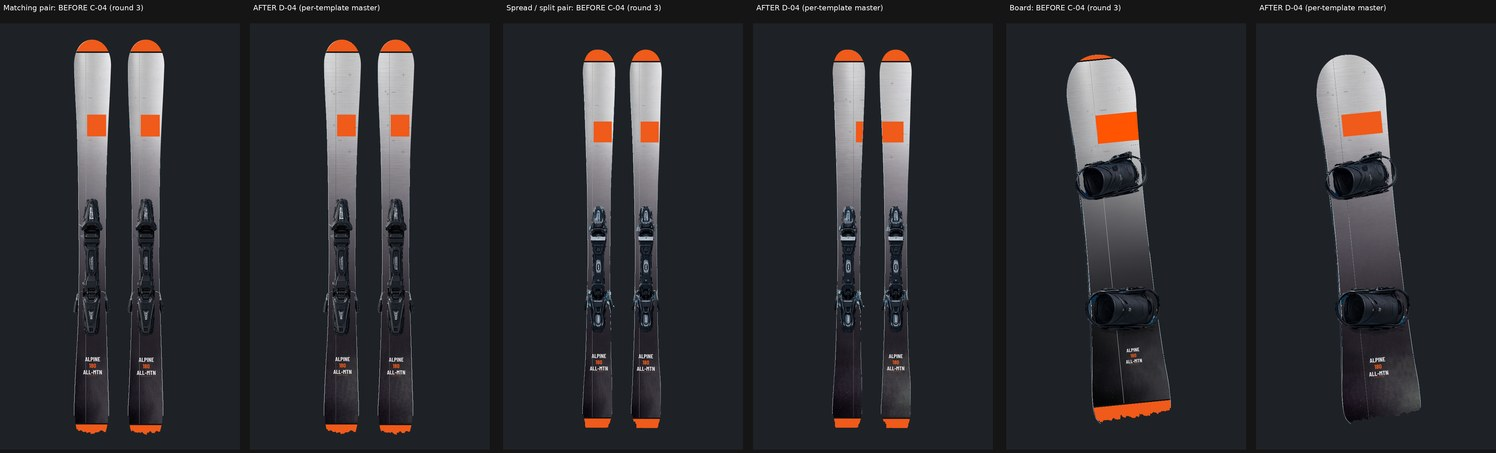
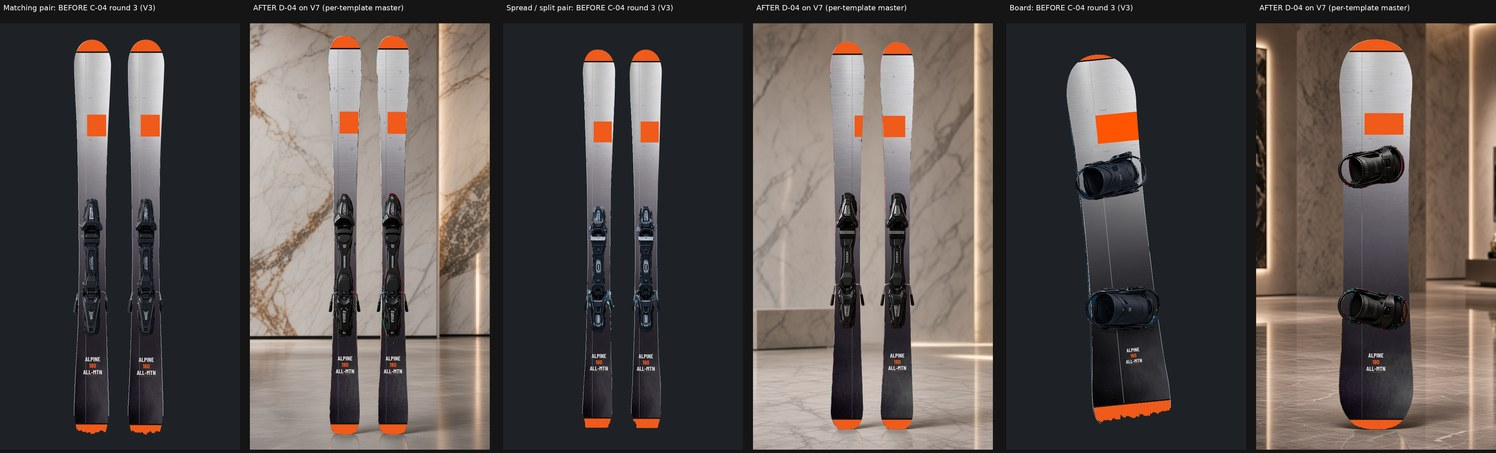
20261115d: V7 only (Dan 7:54 AM MT) - drop V3/template5/board rotation; spec standard = V7, no rotation

diff --git a/rate/20261115d/index.html b/rate/20261115d/index.html
@@ -71,7 +71,7 @@
 <header>
   <div>
     <h1>PowderWraps — Rate designs (20261115d)</h1>
-    <p>TEST — C-04 Brushed Tech ONLY, new per-template master method: one locked layout spec → a true-size master for each template (ski 7 in × 192 cm, board 14 in × 182 cm, split pair 14 in × 192 cm cut into L/R). Each mockup is a straight downscale of its master on the approved V3 template — no rotation, no crop. Rate each layout. 2 Keep · 1 Maybe · 0 Bad.</p>
+    <p>TEST — C-04 Brushed Tech ONLY, per-template master method on V7 ONLY: one locked layout spec → a true-size master per template (ski 7 in × 192 cm, board 14 in × 182 cm, split pair 14 in × 192 cm cut into L/R). Each V7 mockup is a straight downscale of its master — no rotation, no crop. Rate each view. 2 Keep · 1 Maybe · 0 Bad.</p>
   </div>
   <div class="actions">
     <button type="button" id="copyBtn">Copy payload</button>
@@ -87,16 +87,9 @@
 
   <div class="section-h">Before / after — C-04 round 3 vs D-04 per-template masters</div>
   <div class="legend" style="padding:8px"><img src="img/before-after.jpg" style="width:100%;cursor:zoom-in;border-radius:8px;background:#151515" onclick="openLb('img/before-after_full.jpg')" alt="before and after"/>
-  <p style="margin:6px 0 0">Before (C-04): one 1107×11712 canvas cropped/scaled into every view; board art rotated 5.717°. After (D-04): each view gets its own true-size master, placed straight. Board AFTER = master rotated 5.717° in the mockup only (+8.8% uniform scale to cover); the print file stays straight.</p></div>
-
-  <div class="section-h">Templates used (Dan-approved only) and skipped</div>
-  <div class="legend"><ul style="margin:0;padding-left:18px">
-  <li><b>Used — V3 Matching / Spread / Board</b>: approved standard, Dan t1309u, Nov 6 (APPROVED-STANDARD.json); 65-file hash list verified.</li>
-  <li><b>Used — V7 Matching / Spread / Board</b>: approved by Dan (lock: t1369u + t1370u, Nov 10; confirmed again by Dan Nov 15); 49-file lock verified.</li>
-  <li><b>Used — V7 scene backgrounds: Lodge wall (Matching) and Slope ski rack (Spread)</b>: approved by Dan (lock: t1378u, Nov 10; confirmed again by Dan Nov 15); 4-file lock verified.</li>
-  <li><b>Used — Lodge template5 Matching / Spread / Board</b>: locked Nov 9, Dan t1345u, mockups only (lodge-template5/LOCK-SHA256.json); 78-file lock verified before and after.</li>
-  <li><b>Skipped</b>: V7 reflection version (superseded); the older lodge-candidate working copy and the Nov 6 lodge reference photos (sources only, superseded by the locked template5); board scene backgrounds (après / board4) and other v7-bg-test scenes (not in any lock); pw-fixed-reference-template, unified-template-v1, universal snow background (drafts/candidates); Drive 05 Affinity ski-pair/snowboard templates (Sept, superseded by V3, no approval record).</li>
-  </ul></div>
+  <p style="margin:6px 0 0">Before (C-04, round 3): one 1107×11712 canvas cropped/scaled into every V3 view; board rotated 5.717°. After (D-04): each V7 view gets its own true-size master, placed straight with no rotation.</p></div>
+  <div class="section-h">Template</div>
+  <div class="legend">V7 only (Dan, Nov 15 7:54 AM MT): V7 Matching Pair, V7 Spread Pair, V7 Board (lock: Dan t1369u + t1370u, 49 files verified) and the two V7 scenes, Lodge wall and Slope ski rack (lock: Dan t1378u, 4 files verified). Art layer only; 0 binding / equipment pixels changed.</div>
   <div class="section-h">Master files (download)</div>
   <div class="legend" style="overflow-x:auto"><table style="width:100%;border-collapse:collapse;font-size:12px"><tr style="text-align:left"><th>File</th><th>Pixels</th><th>Physical size</th><th>DPI</th><th>File size</th></tr><tr><td><a href="masters/PWKD261115D-04-ski-master-7in-x-192cm-150dpi.png" download>PWKD261115D-04-ski-master-7in-x-192cm-150dpi.png</a></td><td>1050 × 11339 px</td><td>7 in x 192 cm (17.78 x 192 cm) (17.78 × 192.01 cm)</td><td>150 dpi</td><td>9.3 MB</td></tr><tr><td><a href="masters/PWKD261115D-04-board-master-14in-x-182cm-150dpi.png" download>PWKD261115D-04-board-master-14in-x-182cm-150dpi.png</a></td><td>2100 × 10748 px</td><td>14 in x 182 cm (35.56 x 182 cm) (35.56 × 182.0 cm)</td><td>150 dpi</td><td>18.0 MB</td></tr><tr><td><a href="masters/PWKD261115D-04-split-L-7in-x-192cm-150dpi.png" download>PWKD261115D-04-split-L-7in-x-192cm-150dpi.png</a></td><td>1050 × 11339 px</td><td>7 in x 192 cm (left half of 14 in x 192 cm sheet) (17.78 × 192.01 cm)</td><td>150 dpi</td><td>9.4 MB</td></tr><tr><td><a href="masters/PWKD261115D-04-split-R-7in-x-192cm-150dpi.png" download>PWKD261115D-04-split-R-7in-x-192cm-150dpi.png</a></td><td>1050 × 11339 px</td><td>7 in x 192 cm (right half of 14 in x 192 cm sheet) (17.78 × 192.01 cm)</td><td>150 dpi</td><td>9.1 MB</td></tr></table>
   <p style="margin:6px 0 0">split-L + split-R are the two halves of one 2100 × 11339 px (14 in × 192 cm) sheet, cut at x = 1050 px. Masters are PNG, sRGB, 150 dpi tagged.</p></div>
@@ -406,23 +399,24 @@
   &quot;nothing vulgar&quot;,
   &quot;approved V3 template only&quot;
  ],
- &quot;status&quot;: &quot;STANDARD per-template master method (Dan via Jenni, Nov 15 2026 7:39 AM MT). Reuse this file as the pattern: copy it, change base/accent/elements, keep the coordinate system and per_template_masters.&quot;,
+ &quot;status&quot;: &quot;STANDARD per-template master method (Dan via Jenni, Nov 15 2026). Template: V7 ONLY (Dan, 7:54 AM MT Nov 15). Reuse this file as the pattern: copy it, change base/accent/elements, keep the coordinate system and per_template_masters.&quot;,
  &quot;mockup_rules&quot;: {
+  &quot;template&quot;: &quot;V7 only: V7 Matching Pair, V7 Spread Pair, V7 Board, plus the two V7 scenes (Lodge wall = Matching, Slope ski rack = Spread). No V3, no other sets.&quot;,
   &quot;masters&quot;: &quot;print files stay straight and square; never altered for a mockup&quot;,
-  &quot;V3_board&quot;: &quot;mockup only: rotate the board master by the measured V3 board axis angle (5.717 deg, PCA), centre on the board axis, uniform scale up only as needed to cover (C-04: +8.8%)&quot;,
-  &quot;skis&quot;: &quot;straight uniform downscale of the master to each ski piece length, centred, no rotation, no crop&quot;,
-  &quot;split_pair&quot;: &quot;split-L on the left ski, split-R on the right ski of a Spread Pair template&quot;,
-  &quot;templates&quot;: &quot;only Dan-approved locked sets: V3 (Matching/Spread/Board), V7 (Matching/Spread/Board), V7 scene backgrounds (lodge wall = Matching, slope ski rack = Spread)&quot;
+  &quot;placement&quot;: &quot;NO rotation, NO extra scale: straight uniform downscale of each master to the piece length (art-mask extent), centred on the piece, no crop. Art layer only; equipment and bindings untouched.&quot;,
+  &quot;matching&quot;: &quot;ski master on both skis&quot;,
+  &quot;spread&quot;: &quot;split-L on the left ski, split-R on the right ski&quot;,
+  &quot;board&quot;: &quot;board master straight on the upright V7 board&quot;
  }
 }</pre></div>
 </main>
-<footer>PowderWraps · single-file rater · 20261115d · 5 cards (V3 ski pair · V3 board · V3 split pair · V7 + scenes · Lodge template5) + masters + layout spec + before/after · approved V3 template, bindings unchanged</footer>
+<footer>PowderWraps · single-file rater · 20261115d · 5 cards (V7 Matching · V7 Spread · V7 Board · Lodge wall · Slope ski rack) + masters + layout spec + before/after · approved V3 template, bindings unchanged</footer>
 <div id="lightbox" onclick="this.classList.remove('open')"><img id="lightboxImg" alt=""/><div class="hint">Click anywhere to close</div></div>
 <div id="toast"></div>
 <script>
 const BATCH = "20261115d";
 const WEBHOOK_URL = "";
-const DESIGNS = [{"id": "PWKD261115D-04-SKI", "name": "Brushed Tech \u2014 Ski master, matching pair", "motif": "V3 Matching pair: same master on both skis, straight uniform downscale to each ski's full length (0 rotation, 0 crop). 100 px (0.05%) of the ski mask at the widest shovel edge is not covered and shows as gray hatch.", "ctx": {"group": "Per-template master test (Dan Nov 15, 7:14 AM MT) \u2014 C-04 Brushed Tech only", "trend": "same B-04/C-04 look, each template gets its own true-size master built from one locked layout spec", "model": "Kittl \u00b7 Nano Banana 2.1 4K (1:4, 2048\u00d78256) clean brushed-metal plate; every mark, pinstripe, block, text and cap is vector-placed from spec.json", "prompt": "Clean full-bleed brushed aluminium plate (C-04 as reference): bright satin silver at top \u2192 gunmetal \u2192 matte black, grain mist at the bottom; no text, lines or marks.", "prompt_source": "summary", "tier": "Season", "sidecar": true, "cost": "40 Kittl tokens (one plate shared by all 4 masters)", "product": "Skis (matching pair)", "size": "ski master 1050\u00d711339 px \u00b7 7 in \u00d7 192 cm (17.78 \u00d7 192 cm) @150 dpi", "flags": "see note above", "intent": "V3 Matching pair: same master on both skis, straight uniform downscale to each ski's full length (0 rotation, 0 crop). 100 px (0.05%) of the ski mask at the widest shovel edge is not covered and shows as gray hatch."}, "kind": "ski", "img": "img/card_ski.jpg", "full": "img/card_ski_full.jpg", "rate": "", "note": "", "section": "kittl", "suggestion_applied": ""}, {"id": "PWKD261115D-04-BOARD", "name": "Brushed Tech \u2014 Board master (mockup rotated 5.717\u00b0 to the V3 board)", "motif": "V3 Board, MOCKUP ONLY: the straight 14 in \u00d7 182 cm print master is rotated 5.717\u00b0 onto the measured board axis and scaled up uniformly +8.8% so it covers the board: 9 px (0.004%) of the board left uncovered, centre offset 0.0 px, no shear. The print file is unchanged. Trade-off: at +8.8% the art runs 4.04% past each end, so the orange tip and tail caps fall off the board in this mockup. Alt panel: rotation only, no extra scale, keeps both caps but leaves 1.041% uncovered along the sides.", "ctx": {"group": "Per-template master test (Dan Nov 15, 7:14 AM MT) \u2014 C-04 Brushed Tech only", "trend": "same B-04/C-04 look, each template gets its own true-size master built from one locked layout spec", "model": "Kittl \u00b7 Nano Banana 2.1 4K (1:4, 2048\u00d78256) clean brushed-metal plate; every mark, pinstripe, block, text and cap is vector-placed from spec.json", "prompt": "Clean full-bleed brushed aluminium plate (C-04 as reference): bright satin silver at top \u2192 gunmetal \u2192 matte black, grain mist at the bottom; no text, lines or marks.", "prompt_source": "summary", "tier": "Season", "sidecar": true, "cost": "40 Kittl tokens (one plate shared by all 4 masters)", "product": "Board", "size": "board master 2100\u00d710748 px \u00b7 14 in \u00d7 182 cm (35.56 \u00d7 182 cm) @150 dpi", "flags": "see note above", "intent": "V3 Board, MOCKUP ONLY: the straight 14 in \u00d7 182 cm print master is rotated 5.717\u00b0 onto the measured board axis and scaled up uniformly +8.8% so it covers the board: 9 px (0.004%) of the board left uncovered, centre offset 0.0 px, no shear. The print file is unchanged. Trade-off: at +8.8% the art runs 4.04% past each end, so the orange tip and tail caps fall off the board in this mockup. Alt panel: rotation only, no extra scale, keeps both caps but leaves 1.041% uncovered along the sides."}, "kind": "board", "img": "img/card_board.jpg", "full": "img/card_board_full.jpg", "rate": "", "note": "", "section": "kittl", "suggestion_applied": ""}, {"id": "PWKD261115D-04-SPLIT", "name": "Brushed Tech \u2014 Split pair (one 14 in sheet cut in two)", "motif": "Mocked on the V3 Spread pair (the approved one-image-across-both-skis layout; no separate 'split-pair' template exists). Gradient, brush grain, caps and the orange block flow across the seam; the spec text sits on the right ski and no mark is within 12 mm of the seam.", "ctx": {"group": "Per-template master test (Dan Nov 15, 7:14 AM MT) \u2014 C-04 Brushed Tech only", "trend": "same B-04/C-04 look, each template gets its own true-size master built from one locked layout spec", "model": "Kittl \u00b7 Nano Banana 2.1 4K (1:4, 2048\u00d78256) clean brushed-metal plate; every mark, pinstripe, block, text and cap is vector-placed from spec.json", "prompt": "Clean full-bleed brushed aluminium plate (C-04 as reference): bright satin silver at top \u2192 gunmetal \u2192 matte black, grain mist at the bottom; no text, lines or marks.", "prompt_source": "summary", "tier": "Season", "sidecar": true, "cost": "40 Kittl tokens (one plate shared by all 4 masters)", "product": "Skis (split pair)", "size": "sheet 2100\u00d711339 px (14 in \u00d7 192 cm) \u2192 split-L and split-R 1050\u00d711339 px each, 7 in \u00d7 192 cm @150 dpi", "flags": "see note above", "intent": "Mocked on the V3 Spread pair (the approved one-image-across-both-skis layout; no separate 'split-pair' template exists). Gradient, brush grain, caps and the orange block flow across the seam; the spec text sits on the right ski and no mark is within 12 mm of the seam."}, "kind": "split", "img": "img/card_split.jpg", "full": "img/card_split_full.jpg", "rate": "", "note": "", "section": "kittl", "suggestion_applied": ""}, {"id": "PWKD261115D-04-V7", "name": "Brushed Tech \u2014 V7 templates + V7 scenes (Dan-approved, 5 mockups)", "motif": "Same masters on Dan's other approved sets: V7 Matching Pair, V7 Spread Pair (split L/R), V7 Board (upright, straight), V7 scene Lodge wall (Matching) and V7 scene Slope ski rack (Spread). Straight uniform downscale to each piece length, art layer only, uncovered: matching 0.053%, spread 0.06%, board 0%. 0 binding / equipment pixels changed.", "ctx": {"group": "Per-template master test (Dan Nov 15, 7:14 AM MT) \u2014 C-04 Brushed Tech only", "trend": "same B-04/C-04 look, each template gets its own true-size master built from one locked layout spec", "model": "Kittl \u00b7 Nano Banana 2.1 4K (1:4, 2048\u00d78256) clean brushed-metal plate; every mark, pinstripe, block, text and cap is vector-placed from spec.json", "prompt": "Clean full-bleed brushed aluminium plate (C-04 as reference): bright satin silver at top \u2192 gunmetal \u2192 matte black, grain mist at the bottom; no text, lines or marks.", "prompt_source": "summary", "tier": "Season", "sidecar": true, "cost": "40 Kittl tokens (one plate shared by all 4 masters)", "product": "Skis + Board", "size": "same four masters (ski, board, split-L, split-R)", "flags": "see note above", "intent": "Same masters on Dan's other approved sets: V7 Matching Pair, V7 Spread Pair (split L/R), V7 Board (upright, straight), V7 scene Lodge wall (Matching) and V7 scene Slope ski rack (Spread). Straight uniform downscale to each piece length, art layer only, uncovered: matching 0.053%, spread 0.06%, board 0%. 0 binding / equipment pixels changed."}, "kind": "v7", "img": "img/card_v7.jpg", "full": "img/card_v7_full.jpg", "rate": "", "note": "", "section": "kittl", "suggestion_applied": ""}, {"id": "PWKD261115D-04-T5", "name": "Brushed Tech \u2014 Lodge template5 (3 mockups)", "motif": "Lodge template5 (locked Nov 9, Dan t1345u, mockups only): Matching Pair, Spread Pair (split L/R) and Board, each a straight uniform downscale of the true-size master to the piece length, art layer only. Template5 pieces are a little wider for their length than the masters, so thin side strips stay uncovered (gray hatch): matching 2.821%, board 1.771%, spread 0%. 0 binding pixels changed.", "ctx": {"group": "Per-template master test (Dan Nov 15, 7:14 AM MT) \u2014 C-04 Brushed Tech only", "trend": "same B-04/C-04 look, each template gets its own true-size master built from one locked layout spec", "model": "Kittl \u00b7 Nano Banana 2.1 4K (1:4, 2048\u00d78256) clean brushed-metal plate; every mark, pinstripe, block, text and cap is vector-placed from spec.json", "prompt": "Clean full-bleed brushed aluminium plate (C-04 as reference): bright satin silver at top \u2192 gunmetal \u2192 matte black, grain mist at the bottom; no text, lines or marks.", "prompt_source": "summary", "tier": "Season", "sidecar": true, "cost": "40 Kittl tokens (one plate shared by all 4 masters)", "product": "Skis + Board", "size": "same four masters (ski, board, split-L, split-R)", "flags": "see note above", "intent": "Lodge template5 (locked Nov 9, Dan t1345u, mockups only): Matching Pair, Spread Pair (split L/R) and Board, each a straight uniform downscale of the true-size master to the piece length, art layer only. Template5 pieces are a little wider for their length than the masters, so thin side strips stay uncovered (gray hatch): matching 2.821%, board 1.771%, spread 0%. 0 binding pixels changed."}, "kind": "t5", "img": "img/card_t5.jpg", "full": "img/card_t5_full.jpg", "rate": "", "note": "", "section": "kittl", "suggestion_applied": ""}];
+const DESIGNS = [{"id": "PWKD261115D-04-V7-MATCHING", "name": "Brushed Tech \u2014 V7 Matching Pair", "motif": "V7 Matching Pair: the ski master on both skis, straight uniform downscale to each ski's full length (no rotation, no crop). Uncovered: 0.053% (thin strip at the widest shovel edge, gray hatch).", "ctx": {"group": "Per-template master test (Dan Nov 15, 7:14 AM MT) \u2014 C-04 Brushed Tech only", "trend": "same B-04/C-04 look, each template gets its own true-size master built from one locked layout spec", "model": "Kittl \u00b7 Nano Banana 2.1 4K (1:4, 2048\u00d78256) clean brushed-metal plate; every mark, pinstripe, block, text and cap is vector-placed from spec.json", "prompt": "Clean full-bleed brushed aluminium plate (C-04 as reference): bright satin silver at top \u2192 gunmetal \u2192 matte black, grain mist at the bottom; no text, lines or marks.", "prompt_source": "summary", "tier": "Season", "sidecar": true, "cost": "40 Kittl tokens (one plate shared by all 4 masters)", "product": "Skis (matching pair)", "size": "ski master 1050\u00d711339 px \u00b7 7 in \u00d7 192 cm @150 dpi, on both skis", "flags": "V7 only \u00b7 no rotation \u00b7 art layer only", "intent": "V7 Matching Pair: the ski master on both skis, straight uniform downscale to each ski's full length (no rotation, no crop). Uncovered: 0.053% (thin strip at the widest shovel edge, gray hatch)."}, "kind": "v7-matching", "img": "img/card_v7-matching.jpg", "full": "img/card_v7-matching_full.jpg", "rate": "", "note": "", "section": "kittl", "suggestion_applied": ""}, {"id": "PWKD261115D-04-V7-SPREAD", "name": "Brushed Tech \u2014 V7 Spread Pair (split L/R)", "motif": "V7 Spread Pair: split-L on the left ski, split-R on the right; gradient, grain, caps and orange block flow across the seam, spec text on the right ski, no mark within 12 mm of the seam. Uncovered: 0.06%.", "ctx": {"group": "Per-template master test (Dan Nov 15, 7:14 AM MT) \u2014 C-04 Brushed Tech only", "trend": "same B-04/C-04 look, each template gets its own true-size master built from one locked layout spec", "model": "Kittl \u00b7 Nano Banana 2.1 4K (1:4, 2048\u00d78256) clean brushed-metal plate; every mark, pinstripe, block, text and cap is vector-placed from spec.json", "prompt": "Clean full-bleed brushed aluminium plate (C-04 as reference): bright satin silver at top \u2192 gunmetal \u2192 matte black, grain mist at the bottom; no text, lines or marks.", "prompt_source": "summary", "tier": "Season", "sidecar": true, "cost": "40 Kittl tokens (one plate shared by all 4 masters)", "product": "Skis (split pair)", "size": "split-L + split-R 1050\u00d711339 px each (one 14 in \u00d7 192 cm sheet cut in half) @150 dpi", "flags": "V7 only \u00b7 no rotation \u00b7 art layer only", "intent": "V7 Spread Pair: split-L on the left ski, split-R on the right; gradient, grain, caps and orange block flow across the seam, spec text on the right ski, no mark within 12 mm of the seam. Uncovered: 0.06%."}, "kind": "v7-spread", "img": "img/card_v7-spread.jpg", "full": "img/card_v7-spread_full.jpg", "rate": "", "note": "", "section": "kittl", "suggestion_applied": ""}, {"id": "PWKD261115D-04-V7-BOARD", "name": "Brushed Tech \u2014 V7 Board (straight)", "motif": "V7 Board: board master placed straight on the upright V7 board, no rotation, no extra scale. Uncovered: 0.0%; both orange caps on the board.", "ctx": {"group": "Per-template master test (Dan Nov 15, 7:14 AM MT) \u2014 C-04 Brushed Tech only", "trend": "same B-04/C-04 look, each template gets its own true-size master built from one locked layout spec", "model": "Kittl \u00b7 Nano Banana 2.1 4K (1:4, 2048\u00d78256) clean brushed-metal plate; every mark, pinstripe, block, text and cap is vector-placed from spec.json", "prompt": "Clean full-bleed brushed aluminium plate (C-04 as reference): bright satin silver at top \u2192 gunmetal \u2192 matte black, grain mist at the bottom; no text, lines or marks.", "prompt_source": "summary", "tier": "Season", "sidecar": true, "cost": "40 Kittl tokens (one plate shared by all 4 masters)", "product": "Board", "size": "board master 2100\u00d710748 px \u00b7 14 in \u00d7 182 cm @150 dpi", "flags": "V7 only \u00b7 no rotation \u00b7 art layer only", "intent": "V7 Board: board master placed straight on the upright V7 board, no rotation, no extra scale. Uncovered: 0.0%; both orange caps on the board."}, "kind": "v7-board", "img": "img/card_v7-board.jpg", "full": "img/card_v7-board_full.jpg", "rate": "", "note": "", "section": "kittl", "suggestion_applied": ""}, {"id": "PWKD261115D-04-V7-LODGE", "name": "Brushed Tech \u2014 V7 Scene: Lodge wall", "motif": "V7 Lodge wall scene (Matching Pair): same placement as V7 Matching on the approved scene background. Uncovered: 0.053%.", "ctx": {"group": "Per-template master test (Dan Nov 15, 7:14 AM MT) \u2014 C-04 Brushed Tech only", "trend": "same B-04/C-04 look, each template gets its own true-size master built from one locked layout spec", "model": "Kittl \u00b7 Nano Banana 2.1 4K (1:4, 2048\u00d78256) clean brushed-metal plate; every mark, pinstripe, block, text and cap is vector-placed from spec.json", "prompt": "Clean full-bleed brushed aluminium plate (C-04 as reference): bright satin silver at top \u2192 gunmetal \u2192 matte black, grain mist at the bottom; no text, lines or marks.", "prompt_source": "summary", "tier": "Season", "sidecar": true, "cost": "40 Kittl tokens (one plate shared by all 4 masters)", "product": "Skis (matching pair, scene)", "size": "ski master on both skis", "flags": "V7 only \u00b7 no rotation \u00b7 art layer only", "intent": "V7 Lodge wall scene (Matching Pair): same placement as V7 Matching on the approved scene background. Uncovered: 0.053%."}, "kind": "v7-lodge", "img": "img/card_v7-lodge.jpg", "full": "img/card_v7-lodge_full.jpg", "rate": "", "note": "", "section": "kittl", "suggestion_applied": ""}, {"id": "PWKD261115D-04-V7-RACK", "name": "Brushed Tech \u2014 V7 Scene: Slope ski rack", "motif": "V7 Slope ski rack scene (Spread Pair): same split placement as V7 Spread on the approved scene background. Uncovered: 0.06%.", "ctx": {"group": "Per-template master test (Dan Nov 15, 7:14 AM MT) \u2014 C-04 Brushed Tech only", "trend": "same B-04/C-04 look, each template gets its own true-size master built from one locked layout spec", "model": "Kittl \u00b7 Nano Banana 2.1 4K (1:4, 2048\u00d78256) clean brushed-metal plate; every mark, pinstripe, block, text and cap is vector-placed from spec.json", "prompt": "Clean full-bleed brushed aluminium plate (C-04 as reference): bright satin silver at top \u2192 gunmetal \u2192 matte black, grain mist at the bottom; no text, lines or marks.", "prompt_source": "summary", "tier": "Season", "sidecar": true, "cost": "40 Kittl tokens (one plate shared by all 4 masters)", "product": "Skis (split pair, scene)", "size": "split-L + split-R", "flags": "V7 only \u00b7 no rotation \u00b7 art layer only", "intent": "V7 Slope ski rack scene (Spread Pair): same split placement as V7 Spread on the approved scene background. Uncovered: 0.06%."}, "kind": "v7-rack", "img": "img/card_v7-rack.jpg", "full": "img/card_v7-rack_full.jpg", "rate": "", "note": "", "section": "kittl", "suggestion_applied": ""}];
 ;
 
 function toast(msg) {
@@ -441,7 +435,7 @@ function sectionTitle(sec) {
   if (sec === 'men') return 'Men 18–50';
   if (sec === 'women') return 'Women 25–40';
   if (sec === 'kids') return 'Kids under 13';
-  if (sec === 'kittl') return 'C-04 Brushed Tech — one master per template (V3 + V7 + V7 scenes + Lodge template5)';
+  if (sec === 'kittl') return 'C-04 Brushed Tech — V7 only (3 product views + 2 scenes)';
   if (sec === 'redesign') return 'Redesign — from your Maybes';
   return 'Designs';
 }
@@ -475,7 +469,7 @@ function render() {
     }).join('');
     const hint = d.suggestion_applied ? `<p class="hint">Applied: ${escapeHtml(d.suggestion_applied)}</p>` : '';
     card.innerHTML = `
-      <div class="quad"><div class="thumb-wrap" onclick="openLb(DESIGNS[${i}].full || DESIGNS[${i}].img)"><p class="cap">Master file(s) as printed · V3 mockup — tap to enlarge</p><img src="${d.img}" alt="${d.id} master and V3 mockup"/></div>${d.ctx ? `<div class="pwinfo"><div><b>${d.id}</b>${['tier','product'].filter(k => d.ctx[k]).map(k => ` · <b>${k[0].toUpperCase()+k.slice(1)}:</b> ${escapeHtml(d.ctx[k])}`).join('')}</div><div><b>Group:</b> ${escapeHtml(d.ctx.group)} · <b>Trend:</b> ${escapeHtml(d.ctx.trend)} · <b>Model:</b> ${escapeHtml(d.ctx.model)}</div>${d.ctx.intent ? `<div><b>Intent:</b> ${escapeHtml(d.ctx.intent)}</div>` : ''}${!d.ctx.sidecar ? `<div><b>Cost / Size / Flags:</b> no Bob Ross sidecar for this design</div>` : ''}${d.ctx.sidecar ? `<div><b>Cost:</b> ${escapeHtml(d.ctx.cost || 'not recorded')} · <b>Size:</b> ${escapeHtml(d.ctx.size || 'not recorded')} · <b>Flags:</b> ${escapeHtml(d.ctx.flags || 'none')}${d.ctx.sidecar_error ? ' · ' + escapeHtml(d.ctx.sidecar_error) : ''}</div>` : ''}<details open><summary>Exact prompt${d.ctx.prompt_source === 'sidecar' ? ' (as used, from Bob Ross sidecar)' : ''}</summary><p class="pwprompt">${escapeHtml(d.ctx.prompt)}</p></details>${d.ctx.prompt_mismatch ? `<details class="pwmis"><summary>⚠ Prompt used differs from the brief</summary><p class="pwprompt">${escapeHtml(d.ctx.prompt_brief)}</p></details>` : ''}<div class="pwhint">Rate it for its target group.</div></div>` : ''}</div>
+      <div class="quad"><div class="thumb-wrap" onclick="openLb(DESIGNS[${i}].full || DESIGNS[${i}].img)"><p class="cap">Master file(s) as printed · V7 mockup — tap to enlarge</p><img src="${d.img}" alt="${d.id} master and V7 mockup"/></div>${d.ctx ? `<div class="pwinfo"><div><b>${d.id}</b>${['tier','product'].filter(k => d.ctx[k]).map(k => ` · <b>${k[0].toUpperCase()+k.slice(1)}:</b> ${escapeHtml(d.ctx[k])}`).join('')}</div><div><b>Group:</b> ${escapeHtml(d.ctx.group)} · <b>Trend:</b> ${escapeHtml(d.ctx.trend)} · <b>Model:</b> ${escapeHtml(d.ctx.model)}</div>${d.ctx.intent ? `<div><b>Intent:</b> ${escapeHtml(d.ctx.intent)}</div>` : ''}${!d.ctx.sidecar ? `<div><b>Cost / Size / Flags:</b> no Bob Ross sidecar for this design</div>` : ''}${d.ctx.sidecar ? `<div><b>Cost:</b> ${escapeHtml(d.ctx.cost || 'not recorded')} · <b>Size:</b> ${escapeHtml(d.ctx.size || 'not recorded')} · <b>Flags:</b> ${escapeHtml(d.ctx.flags || 'none')}${d.ctx.sidecar_error ? ' · ' + escapeHtml(d.ctx.sidecar_error) : ''}</div>` : ''}<details open><summary>Exact prompt${d.ctx.prompt_source === 'sidecar' ? ' (as used, from Bob Ross sidecar)' : ''}</summary><p class="pwprompt">${escapeHtml(d.ctx.prompt)}</p></details>${d.ctx.prompt_mismatch ? `<details class="pwmis"><summary>⚠ Prompt used differs from the brief</summary><p class="pwprompt">${escapeHtml(d.ctx.prompt_brief)}</p></details>` : ''}<div class="pwhint">Rate it for its target group.</div></div>` : ''}</div>
       <div class="meta">
         <h2>${d.id} · ${escapeHtml(d.name)}</h2>
         <p class="motif">${escapeHtml(d.motif)}</p>
